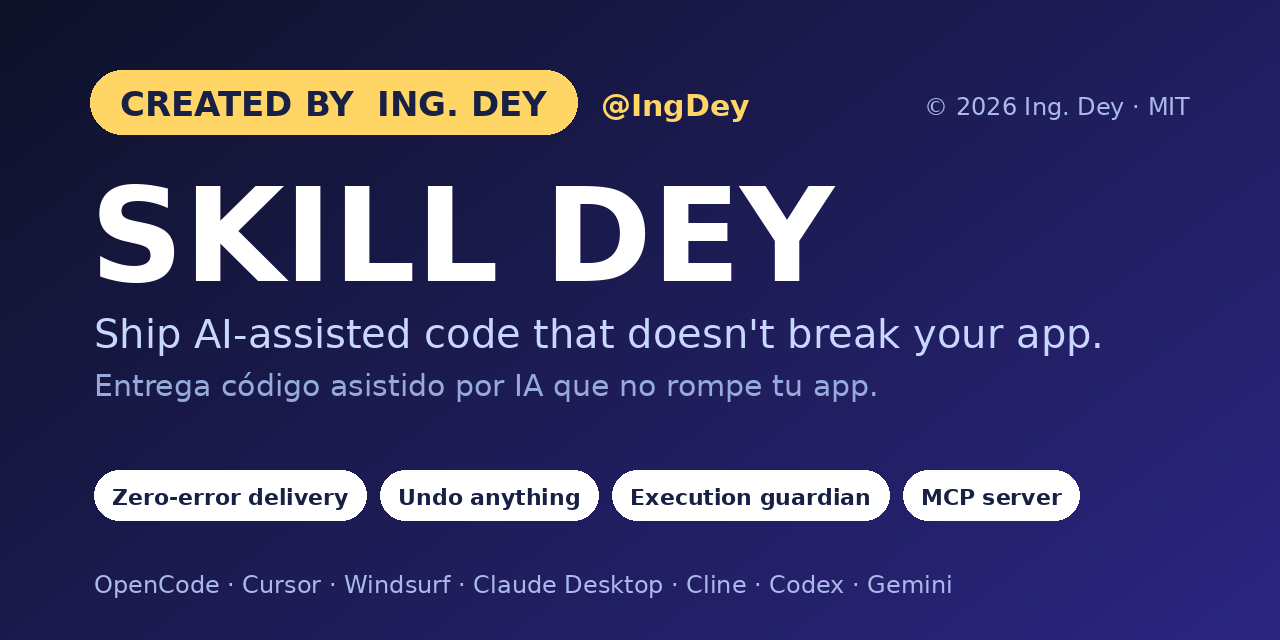
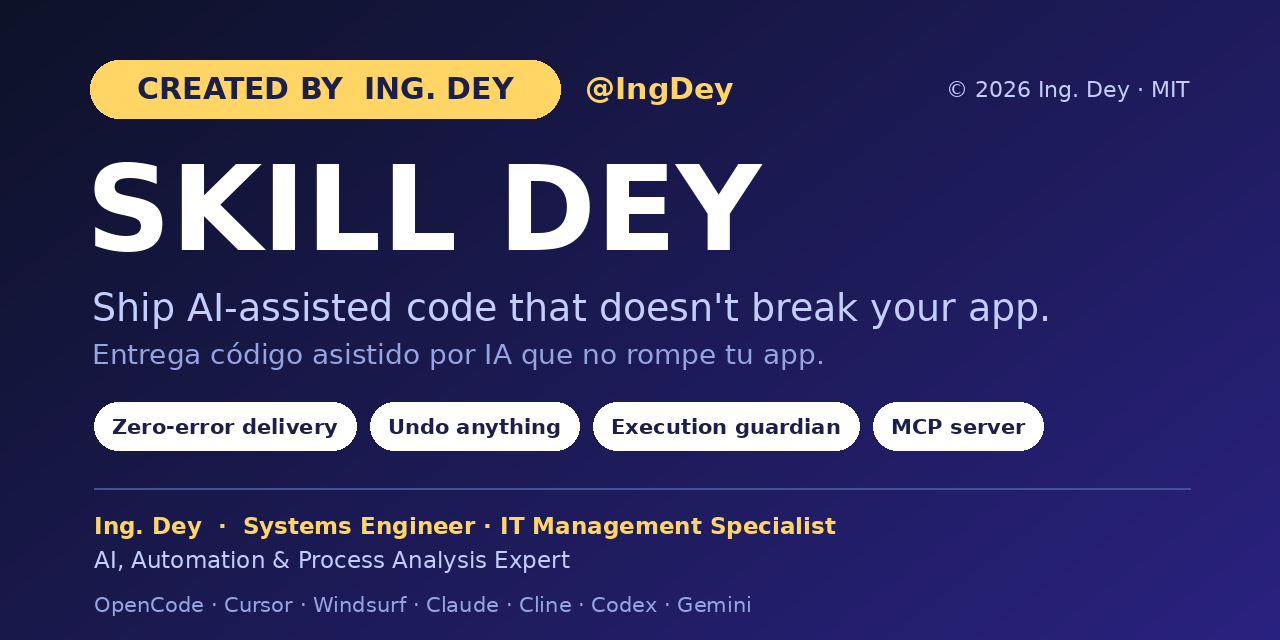
Present Ing. Dey's credentials and make the README more compelling
- Banner and both READMEs now credit Ing. Dey as Systems Engineer,
  IT Management Specialist and expert in AI, automation and process analysis
- New sections: who it is for, "your AI alone vs. with SKILL DEY", FAQ
- Author card with photo, stars badge and 1-minute install link
- CITATION.cff gains abstract and keywords

Claude-Session: https://claude.ai/code/session_01QpNLiYqPeK3po8RS832hin

Changed region(s): [[0.0625, 0.25, 0.8438, 0.9688], [0.0625, 0.0938, 0.5938, 0.2188], [0.7188, 0.125, 0.9375, 0.1875]]

diff --git a/README.es.md b/README.es.md
@@ -1,6 +1,6 @@
 <div align="center">
 
-<img src="docs/banner.png" alt="SKILL DEY: ship AI-assisted code that does not break your app, created by Ing. Dey" width="100%">
+<img src="docs/banner.png" alt="SKILL DEY: entrega código asistido por IA que no rompe tu app. Creado por Ing. Dey, Ingeniero de Sistemas, Especialista en Gerencia Informática, experto en IA, automatizaciones y análisis de procesos" width="100%">
 
 # 🚀 SKILL DEY
 
@@ -14,10 +14,14 @@ Un marco de calidad agéntico para el desarrollo asistido por IA: entiende lo qu
 [![MCP](https://img.shields.io/badge/MCP-servidor%20incluido-8A2BE2.svg)](https://modelcontextprotocol.io/)
 [![Multi-IA](https://img.shields.io/badge/funciona%20con-Cursor%20%7C%20Windsurf%20%7C%20Claude%20%7C%20Cline%20%7C%20Codex%20%7C%20Gemini-orange.svg)](#-funciona-con-tu-ia)
 [![Hecho por IngDey](https://img.shields.io/badge/hecho%20por-IngDey-181717?logo=github)](https://github.com/IngDey)
+[![GitHub stars](https://img.shields.io/github/stars/IngDey/SKILL-DEY-Enterprise-Agentic-Framework-AI-Development-Suite?style=social)](https://github.com/IngDey/SKILL-DEY-Enterprise-Agentic-Framework-AI-Development-Suite/stargazers)
 
 [English](README.md) · **Español**
 
-**Creado y desarrollado por [Ing. Dey (@IngDey)](https://github.com/IngDey)** · ⭐ Dale una estrella al repo si te ayuda a entregar mejor código
+**Creado y desarrollado por [Ing. Dey (@IngDey)](https://github.com/IngDey)**<br>
+<sub>Ingeniero de Sistemas · Especialista en Gerencia Informática · Experto en IA, Automatizaciones y Análisis de Procesos</sub>
+
+⭐ **Dale una estrella al repo** si te ayuda a entregar mejor código · [⚡ Instálalo en 1 minuto](#-instalación-rápida)
 
 </div>
 
@@ -36,6 +40,26 @@ Las IA escriben código rápido, pero también rompen lo que funcionaba, filtran
 | 🤖 **Multi-agente** | Un agente principal, un **explorador** de solo lectura para búsquedas grandes, un agente de **visión** que convierte maquetas/capturas en UI y un **revisor independiente** que audita lo que no escribió. |
 | 📉 **Cuida los tokens** | Las tareas pequeñas no cargan la skill; los flujos pesados solo cuando hacen falta. Un tablero muestra tokens, costo y tiempo por respuesta. |
 | 🔌 **Servidor MCP incluido** | Expone las revisiones como herramientas nativas para cualquier cliente MCP. |
+
+---
+
+## 🎯 ¿Para quién es?
+
+- **Desarrolladores** que usan IA a diario y están cansados de arreglar lo que la IA rompió.
+- **Líderes técnicos y gerentes de TI** que necesitan que el código generado con IA cumpla un estándar: pruebas, seguridad, documentación y trazabilidad.
+- **Empresas** que quieren adoptar la IA en el desarrollo con control, no a prueba y error.
+- **Principiantes** que construyen con IA y necesitan una red de seguridad que atrape lo que todavía no saben.
+
+## ⚖ Tu IA sola vs. tu IA con SKILL DEY
+
+| Tu IA sola | Con SKILL DEY |
+|---|---|
+| Dice "listo" sin ejecutar nada | Cierra la tarea solo cuando las revisiones están en verde |
+| Arregla una cosa y rompe otra | Revisa todo el proyecto y el impacto de cada cambio |
+| Puede pegar claves en el código o leer tu `.env` | El guardián lo bloquea antes de que pase |
+| Un cambio malo te obliga a rehacer a mano | Escribes *"deshaz"* y tus archivos vuelven |
+| Olvida todo entre sesiones | Decisiones, reglas y lecciones quedan en `.skill_dey/` |
+| La documentación "después" (nunca) | Manual técnico, diccionario de datos, manual de usuario y PDF cuando los pidas |
 
 ---
 
@@ -182,9 +206,47 @@ docs/                             guía de instalación y registro de pruebas
 
 ---
 
+## ❓ Preguntas frecuentes
+
+<details><summary><b>¿Es gratis?</b></summary>
+
+Sí. Licencia MIT: úsalo en proyectos personales y comerciales. Solo conserva el crédito.
+</details>
+<details><summary><b>¿Necesito saber programar?</b></summary>
+
+No. Escribes en lenguaje normal (español o inglés) y SKILL DEY decide qué tan a fondo ir. Los desarrolladores con experiencia tienen las mismas revisiones más el CLI y las herramientas MCP.
+</details>
+<details><summary><b>¿Envía mi código a algún lado?</b></summary>
+
+No. Las revisiones corren en tu equipo y SKILL DEY no tiene telemetría. Sus únicas peticiones de red van a las URL del sitio que le pides revisar (por ejemplo, tu app local). Tu código llega a un modelo solo a través de la herramienta de IA que ya usas.
+</details>
+<details><summary><b>¿Me va a dañar la configuración actual?</b></summary>
+
+El instalador respalda cada configuración que toca (archivos `.bak`), solo edita sus propios bloques marcados y reinstalar es seguro. Mira *¿Qué cambia exactamente el instalador?* más arriba.
+</details>
+<details><summary><b>Ya tengo una app. ¿Puedo usarlo ahí?</b></summary>
+
+Sí. El *modo adopción* la respalda, la audita y escribe un informe priorizado antes de cambiar nada, y pregunta antes de tocar la lógica de negocio.
+</details>
+
 ## 👤 Autor
 
-Diseñado, desarrollado y mantenido por **Ing. Dey** ([@IngDey](https://github.com/IngDey)), desarrollador experto con múltiples estudios en el área de TI y muchos años de experiencia en el campo. SKILL DEY es el resultado de esa experiencia: reglas, revisiones y protecciones prácticas aprendidas en proyectos reales. Si te ayuda, sígue a [@IngDey](https://github.com/IngDey) para novedades, dale ⭐ al repo y cuéntaselo a otros desarrolladores.
+<table>
+<tr>
+<td width="110" align="center"><a href="https://github.com/IngDey"><img src="https://github.com/IngDey.png" width="96" alt="Ing. Dey"></a></td>
+<td>
+
+**Ing. Dey** · [@IngDey](https://github.com/IngDey)<br>
+🎓 **Ingeniero de Sistemas** · **Especialista en Gerencia Informática**<br>
+🤖 Experto en **Inteligencia Artificial**, **automatizaciones** y **análisis de procesos**
+
+</td>
+</tr>
+</table>
+
+SKILL DEY fue diseñado, desarrollado y es mantenido por Ing. Dey. Une dos mundos: la disciplina de ingeniería para construir software que funciona y la visión de la gerencia informática, donde cada cambio debe estar controlado, verificado, documentado y alineado con el negocio. El framework aplica ese mismo método a la IA: analizar el proceso, automatizar lo que se puede automatizar y verificar todo antes de darlo por terminado.
+
+Si te sirve, sigue a [@IngDey](https://github.com/IngDey) para novedades, dale ⭐ al repo y compártelo con tu equipo.
 
 **¿Construiste algo con SKILL DEY?** Agrega esta insignia a tu README:
 
@@ -200,4 +262,4 @@ Ideas, reportes de errores y PRs son bienvenidos. Mira [CONTRIBUTING.md](CONTRIB
 
 ## 📄 Licencia
 
-[MIT](LICENSE.md) © 2026 IngDey
+[MIT](LICENSE.md) © 2026 Ing. Dey (@IngDey). Libre para usar, modificar y distribuir; por favor conserva el crédito.

diff --git a/README.md b/README.md
@@ -1,6 +1,6 @@
 <div align="center">
 
-<img src="docs/banner.png" alt="SKILL DEY: ship AI-assisted code that does not break your app, created by Ing. Dey" width="100%">
+<img src="docs/banner.png" alt="SKILL DEY: ship AI-assisted code that does not break your app. Created by Ing. Dey, Systems Engineer, IT Management Specialist, AI, Automation and Process Analysis Expert" width="100%">
 
 # 🚀 SKILL DEY
 
@@ -14,10 +14,14 @@ An agentic quality framework for AI-assisted development: it understands what yo
 [![MCP](https://img.shields.io/badge/MCP-server%20included-8A2BE2.svg)](https://modelcontextprotocol.io/)
 [![Multi-AI](https://img.shields.io/badge/works%20with-Cursor%20%7C%20Windsurf%20%7C%20Claude%20%7C%20Cline%20%7C%20Codex%20%7C%20Gemini-orange.svg)](#-works-with-your-ai)
 [![Made by IngDey](https://img.shields.io/badge/made%20by-IngDey-181717?logo=github)](https://github.com/IngDey)
+[![GitHub stars](https://img.shields.io/github/stars/IngDey/SKILL-DEY-Enterprise-Agentic-Framework-AI-Development-Suite?style=social)](https://github.com/IngDey/SKILL-DEY-Enterprise-Agentic-Framework-AI-Development-Suite/stargazers)
 
 **English** · [Español](README.es.md)
 
-**Created and built by [Ing. Dey (@IngDey)](https://github.com/IngDey)** · ⭐ Star the repo if it helps you ship better code
+**Created and built by [Ing. Dey (@IngDey)](https://github.com/IngDey)**<br>
+<sub>Systems Engineer · IT Management Specialist · Expert in AI, Automation & Process Analysis</sub>
+
+⭐ **Star the repo** if it helps you ship better code · [⚡ Install in 1 minute](#-quick-install)
 
 </div>
 
@@ -36,6 +40,26 @@ AI assistants write code fast, and they also break working features, leak secret
 | 🤖 **Multi-agent** | A main agent, a read-only **explorer** for big searches, a **vision** agent that turns mockups/screenshots into UI, and an **independent reviewer** that audits changes it didn't write. |
 | 📉 **Token-aware** | Small tasks don't load the skill; heavy workflows load only when needed. A usage board shows tokens, cost and time per answer. |
 | 🔌 **MCP server included** | Exposes the checks as native tools to any MCP client. |
+
+---
+
+## 🎯 Who is it for?
+
+- **Developers** who use AI daily and are tired of fixing what it broke.
+- **Tech leads and IT managers** who need AI-generated code to meet a standard: tests, security, documentation, traceability.
+- **Companies** that want to adopt AI in development with control, not by trial and error.
+- **Beginners** who build with AI and need a safety net that catches what they don't know yet.
+
+## ⚖ Your AI alone vs. your AI with SKILL DEY
+
+| Your AI alone | With SKILL DEY |
+|---|---|
+| Says "done" without running anything | Closes the task only when the checks are green |
+| Fixes one thing, breaks another | Reviews the whole project and the impact of each change |
+| Can paste API keys into the code or read your `.env` | The guardian blocks it before it happens |
+| A bad change means rebuilding by hand | Write *"deshaz"* and your files are back |
+| Forgets everything between sessions | Decisions, rules and lessons persist in `.skill_dey/` |
+| Documentation "later" (never) | Technical manual, data dictionary, user manual and PDFs on request |
 
 ---
 
@@ -182,9 +206,47 @@ docs/                             install guide and test log
 
 ---
 
+## ❓ FAQ
+
+<details><summary><b>Is it free?</b></summary>
+
+Yes. MIT license: use it in personal and commercial projects. Just keep the credit.
+</details>
+<details><summary><b>Do I need to know how to program?</b></summary>
+
+No. You write in plain language (Spanish or English) and SKILL DEY decides how deep to go. Experienced developers get the same checks plus the CLI and MCP tools.
+</details>
+<details><summary><b>Does it send my code anywhere?</b></summary>
+
+No. The checks run on your machine and SKILL DEY has no telemetry. Its only network requests go to the site URLs you ask it to check (for example, your local app). Your code reaches a model only through the AI tool you already use.
+</details>
+<details><summary><b>Will it mess up my current setup?</b></summary>
+
+The installer backs up every config it touches (`.bak` files), only edits its own clearly marked blocks, and reinstalling is safe. See *What exactly does the installer change?* above.
+</details>
+<details><summary><b>I already have an app. Can I use it there?</b></summary>
+
+Yes. *Adoption mode* backs it up, audits it and writes a prioritized report before changing anything, and it asks before touching business logic.
+</details>
+
 ## 👤 Author
 
-Designed, built and maintained by **Ing. Dey** ([@IngDey](https://github.com/IngDey)), an experienced software developer with multiple IT qualifications and many years of hands-on experience in the field. SKILL DEY is the result of that experience: practical rules, checks and safeguards learned from real projects. If it helps you, follow [@IngDey](https://github.com/IngDey) for updates, ⭐ the repo and tell other developers.
+<table>
+<tr>
+<td width="110" align="center"><a href="https://github.com/IngDey"><img src="https://github.com/IngDey.png" width="96" alt="Ing. Dey"></a></td>
+<td>
+
+**Ing. Dey** · [@IngDey](https://github.com/IngDey)<br>
+🎓 **Systems Engineer** · **Specialist in IT Management**<br>
+🤖 Expert in **Artificial Intelligence**, **automation** and **business process analysis**
+
+</td>
+</tr>
+</table>
+
+SKILL DEY was designed, built and is maintained by Ing. Dey. It brings together two worlds: the engineering discipline of building software that works, and the management view of IT, where every change must be controlled, verified, documented and aligned with the business. The framework applies that same method to AI: analyze the process, automate what can be automated, and verify everything before calling it done.
+
+If it helps you, follow [@IngDey](https://github.com/IngDey) for updates, ⭐ the repo and share it with your team.
 
 **Built something with SKILL DEY?** Add this badge to your README:
 
@@ -200,4 +262,4 @@ Ideas, bug reports and PRs are welcome. See [CONTRIBUTING.md](CONTRIBUTING.md). 
 
 ## 📄 License
 
-[MIT](LICENSE.md) © 2026 IngDey
+[MIT](LICENSE.md) © 2026 Ing. Dey (@IngDey). Free to use, modify and distribute; please keep the credit.

diff --git a/LEEME.md b/LEEME.md
@@ -24,4 +24,4 @@ No necesitas comandos: escribe normal y hace todo. Atajos: `/skill_dey ayuda`.
 > El guardián automático en vivo (copias antes de cada cambio, verificación al cerrar, cambio de modelo, tablero de consumo) corre dentro de OpenCode. En otras IAs tienes las reglas + los chequeos (CLI/MCP).
 
 ---
-Creado por **Ing. Dey** ([@IngDey](https://github.com/IngDey)) · Licencia MIT
+Creado por **Ing. Dey** ([@IngDey](https://github.com/IngDey)) · Ingeniero de Sistemas, Especialista en Gerencia Informática, experto en IA, automatizaciones y análisis de procesos · Licencia MIT
